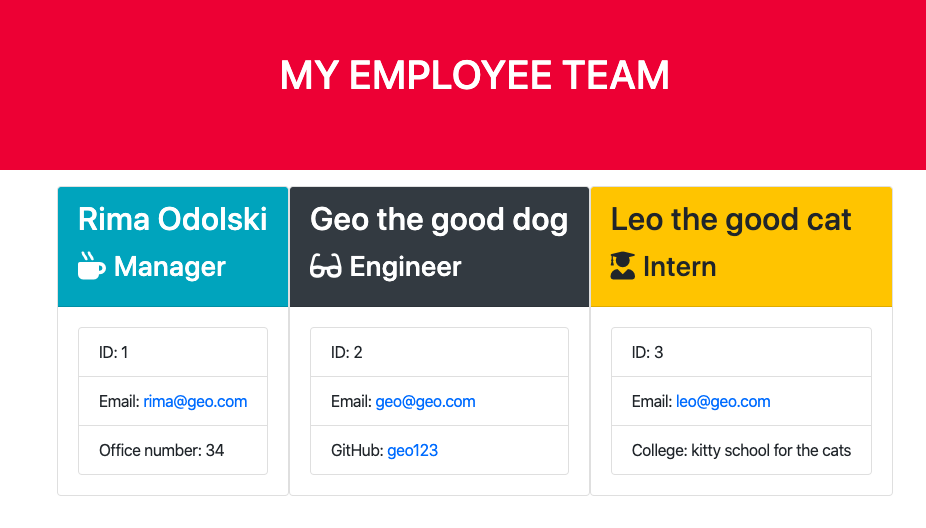
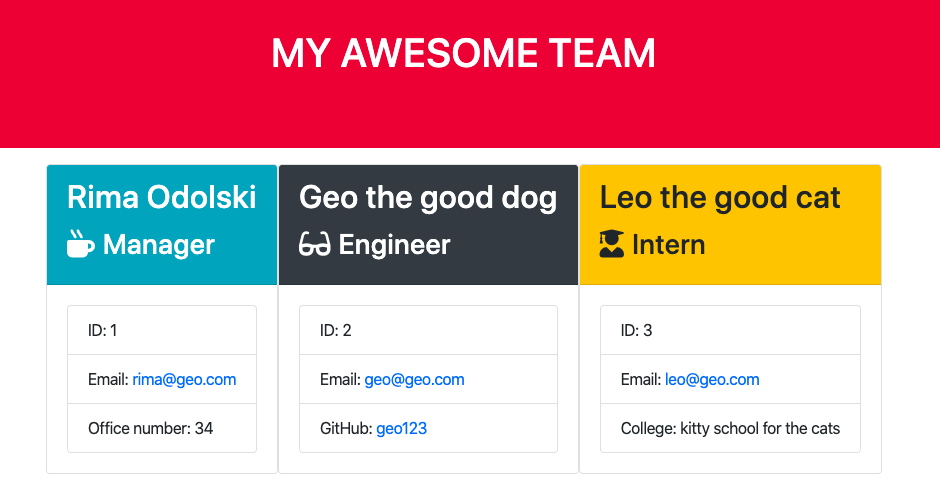
new snippet for readme

diff --git a/index.html b/index.html
@@ -15,7 +15,7 @@
     <div class="container-fluid">
         <div class="row">
             <div class="col-12 jumbotron mb-3 team-heading bg-danger text-white">
-                <h1 class="text-center">MY EMPLOYEE TEAM</h1>
+                <h1 class="text-center">MY AWESOME TEAM</h1>
             </div>
         </div>
     </div>
